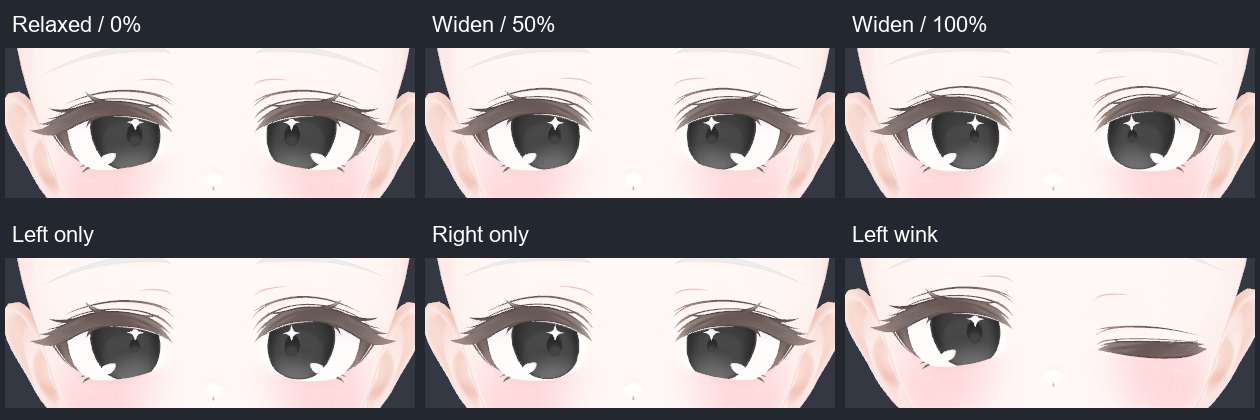
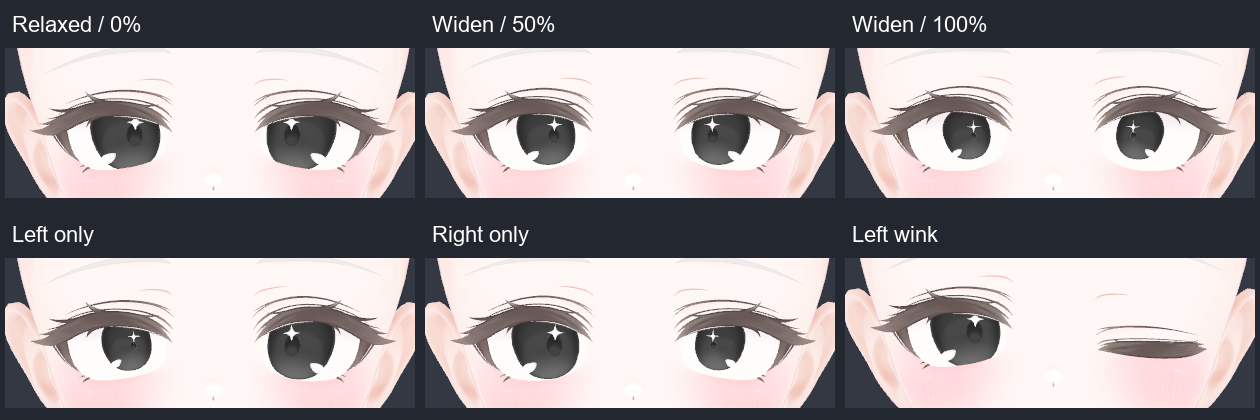
Scale irises and highlights together with eye widening

diff --git a/Packages/jp.suu.milfy-ft/Editor/MilfyEyeWidePlugin.cs b/Packages/jp.suu.milfy-ft/Editor/MilfyEyeWidePlugin.cs
@@ -50,6 +50,17 @@ namespace Suu.MilfyFT.Editor
             {
                 if (widened != body.sharedMesh && widened != mesh) Object.DestroyImmediate(widened);
             }
+            var contractedPupils = mesh;
+            mesh = null;
+            try
+            {
+                mesh = CreateIrisMesh(contractedPupils);
+            }
+            finally
+            {
+                if (contractedPupils != body.sharedMesh && contractedPupils != mesh)
+                    Object.DestroyImmediate(contractedPupils);
+            }
             if (mesh != body.sharedMesh)
             {
                 context.AssetSaver.SaveAsset(mesh);
@@ -81,11 +92,15 @@ namespace Suu.MilfyFT.Editor
                     AnimationCurve.Constant(0, 1, 0));
                 neutral.SetCurve(path, typeof(SkinnedMeshRenderer), "blendShape.MilfyEyeWidePupil" + side,
                     AnimationCurve.Constant(0, 1, 0));
+                neutral.SetCurve(path, typeof(SkinnedMeshRenderer), "blendShape.MilfyEyeWideIris" + side,
+                    AnimationCurve.Constant(0, 1, 0));
                 var wide = Object.Instantiate(neutral);
                 wide.name = "Milfy Eye Wide " + side + " On";
                 wide.SetCurve(path, typeof(SkinnedMeshRenderer), "blendShape.EyeWide" + side,
                     AnimationCurve.Constant(0, 1, 100));
                 wide.SetCurve(path, typeof(SkinnedMeshRenderer), "blendShape.MilfyEyeWidePupil" + side,
+                    AnimationCurve.Constant(0, 1, 100));
+                wide.SetCurve(path, typeof(SkinnedMeshRenderer), "blendShape.MilfyEyeWideIris" + side,
                     AnimationCurve.Constant(0, 1, 100));
                 var lid = new BlendTree
                 {
@@ -147,14 +162,25 @@ namespace Suu.MilfyFT.Editor
 
         internal static Mesh CreatePupilMesh(Mesh source)
         {
+            // pupul_small is the spelling in the original Milfy data.
+            return CreateSplitEyeMesh(source, "pupul_small", "MilfyEyeWidePupil", .5f);
+        }
+
+        internal static Mesh CreateIrisMesh(Mesh source)
+        {
+            // This variant scales the iris and its highlights together. The final character is full-width 2.
+            return CreateSplitEyeMesh(source, "eye_op_small_２", "MilfyEyeWideIris", .4f);
+        }
+
+        private static Mesh CreateSplitEyeMesh(Mesh source, string nativeName, string targetPrefix, float strength)
+        {
             if (source == null) throw new ArgumentNullException(nameof(source));
             var missingSides = new[] { "Left", "Right" }
-                .Where(side => source.GetBlendShapeIndex("MilfyEyeWidePupil" + side) < 0).ToArray();
+                .Where(side => source.GetBlendShapeIndex(targetPrefix + side) < 0).ToArray();
             if (missingSides.Length == 0) return source;
-            // This spelling is the original Milfy shape name, not a typo to correct here.
-            var index = source.GetBlendShapeIndex("pupul_small");
+            var index = source.GetBlendShapeIndex(nativeName);
             if (index < 0)
-                throw new InvalidOperationException("Milfy FT: pupil contraction requires the native pupul_small shape.");
+                throw new InvalidOperationException("Milfy FT: eye contraction requires the native " + nativeName + " shape.");
 
             var positions = source.vertices;
             var vertices = new Vector3[source.vertexCount];
@@ -171,11 +197,11 @@ namespace Suu.MilfyFT.Editor
                             vertices[v] != Vector3.zero) hasDisplacement = true;
                 }
                 if (!hasDisplacement)
-                    throw new InvalidOperationException("Milfy FT: pupul_small has no " + side + " pupil displacement.");
+                    throw new InvalidOperationException("Milfy FT: " + nativeName + " has no " + side + " eye displacement.");
             }
 
             var result = Object.Instantiate(source);
-            result.name = source.name + " (Pupil Contraction)";
+            result.name = source.name + " (" + targetPrefix + ")";
             try
             {
                 foreach (var side in missingSides)
@@ -185,12 +211,12 @@ namespace Suu.MilfyFT.Editor
                     for (var v = 0; v < positions.Length; v++)
                     {
                         // Unmodified Milfy uses local +X for anatomical left, -X for right.
-                        var scale = (side == "Left" ? positions[v].x > 0 : positions[v].x < 0) ? .5f : 0;
+                        var scale = (side == "Left" ? positions[v].x > 0 : positions[v].x < 0) ? strength : 0;
                         vertices[v] *= scale;
                         normals[v] *= scale;
                         tangents[v] *= scale;
                     }
-                    result.AddBlendShapeFrame("MilfyEyeWidePupil" + side,
+                    result.AddBlendShapeFrame(targetPrefix + side,
                         source.GetBlendShapeFrameWeight(index, frame), vertices, normals, tangents);
                 }
                 return result;

diff --git a/Packages/jp.suu.milfy-ft/Tests/Editor/MilfyEyeWideTests.cs b/Packages/jp.suu.milfy-ft/Tests/Editor/MilfyEyeWideTests.cs
@@ -133,6 +133,8 @@ namespace Suu.MilfyFT.Tests
             AddShape("EyeWideRight", 100, Vector3.left);
             AddShape("MilfyEyeWidePupilLeft", 100, Vector3.right);
             AddShape("MilfyEyeWidePupilRight", 100, Vector3.left);
+            AddShape("MilfyEyeWideIrisLeft", 100, Vector3.right);
+            AddShape("MilfyEyeWideIrisRight", 100, Vector3.left);
             var root = new GameObject("Eye wide test");
             var graph = PlayableGraph.Create("Eye wide reset test");
             AnimatorController controller = null;
@@ -178,6 +180,8 @@ namespace Suu.MilfyFT.Tests
                     {
                         Assert.That(renderer.GetBlendShapeWeight(_source.GetBlendShapeIndex("EyeWide" + side)),
                             Is.EqualTo(active * 100).Within(.01f));
+                        Assert.That(renderer.GetBlendShapeWeight(_source.GetBlendShapeIndex("MilfyEyeWideIris" + side)),
+                            Is.EqualTo(active * 100).Within(.01f));
                         Assert.That(renderer.GetBlendShapeWeight(_source.GetBlendShapeIndex("MilfyEyeWidePupil" + side)),
                             Is.EqualTo(active * 100 * (supportsTrackedPupils ? 1 - pupilTrackingValue : 1)).Within(.01f));
                     }
@@ -209,39 +213,40 @@ namespace Suu.MilfyFT.Tests
             }
         }
 
-        private void AddNativePupil()
+        private void AddNativePupil(string nativeName = "pupul_small")
         {
             _source.vertices = new[] { Vector3.left, Vector3.right, Vector3.up };
             foreach (var weight in new[] { 50f, 100f })
-                _source.AddBlendShapeFrame("pupul_small", weight,
+                _source.AddBlendShapeFrame(nativeName, weight,
                     new[] { Vector3.right * weight / 100, Vector3.left * weight / 100, Vector3.zero },
                     new[] { Vector3.forward, Vector3.back, Vector3.zero },
                     new[] { Vector3.up, Vector3.down, Vector3.zero });
         }
 
-        private Mesh BuildPupils()
+        private Mesh BuildPupils(bool iris = false)
         {
             var type = typeof(Editor.MilfyFtSetupService).Assembly
                 .GetType("Suu.MilfyFT.Editor.MilfyEyeWidePlugin", true);
             try
             {
-                return _result = (Mesh)type.GetMethod("CreatePupilMesh", BindingFlags.Static | BindingFlags.NonPublic)
+                return _result = (Mesh)type.GetMethod(iris ? "CreateIrisMesh" : "CreatePupilMesh", BindingFlags.Static | BindingFlags.NonPublic)
                     .Invoke(null, new object[] { _source });
             }
             catch (TargetInvocationException exception) { throw exception.InnerException; }
         }
 
-        [Test]
-        public void SplitsPupilsIndependentlyAtHalfStrengthAndPreservesFrames()
+        [TestCase(false)]
+        [TestCase(true)]
+        public void SplitsEyeContractionIndependentlyAndPreservesFrames(bool iris)
         {
-            AddNativePupil();
-            var result = BuildPupils();
+            AddNativePupil(iris ? "eye_op_small_２" : "pupul_small");
+            var result = BuildPupils(iris);
             Assert.That(_source.blendShapeCount, Is.EqualTo(3));
             Assert.That(result.blendShapeCount, Is.EqualTo(5));
             AssertShapeEqual(_source, 2, result, 2);
             foreach (var side in new[] { "Left", "Right" })
             {
-                var index = result.GetBlendShapeIndex("MilfyEyeWidePupil" + side);
+                var index = result.GetBlendShapeIndex((iris ? "MilfyEyeWideIris" : "MilfyEyeWidePupil") + side);
                 Assert.That(result.GetBlendShapeFrameCount(index), Is.EqualTo(2));
                 for (var frame = 0; frame < 2; frame++)
                 {
@@ -253,7 +258,7 @@ namespace Suu.MilfyFT.Tests
                     for (var channel = 0; channel < 3; channel++)
                     for (var vertex = 0; vertex < 3; vertex++)
                         Assert.That(actual[channel][vertex], Is.EqualTo(vertex == (side == "Left" ? 1 : 0)
-                            ? original[channel][vertex] * .5f : Vector3.zero));
+                            ? original[channel][vertex] * (iris ? .4f : .5f) : Vector3.zero));
                 }
             }
         }
@@ -283,6 +288,13 @@ namespace Suu.MilfyFT.Tests
             AddShape("pupul_small", 100, Vector3.up);
             Assert.Throws<InvalidOperationException>(() => BuildPupils());
             Assert.That(_source.blendShapeCount, Is.EqualTo(3));
+        }
+
+        [Test]
+        public void MissingIrisSourceFailsWithoutChangingSource()
+        {
+            Assert.Throws<InvalidOperationException>(() => BuildPupils(true));
+            Assert.That(_source.blendShapeCount, Is.EqualTo(2));
         }
 
         private static void AssertShapeEqual(Mesh source, int sourceIndex, Mesh target, int targetIndex)

diff --git a/Documentation~/eye-widening.md b/Documentation~/eye-widening.md
@@ -4,9 +4,9 @@
 
 1.1.xのBlendShareデータは39形状で、Jerry 7.0.5が駆動する`EyeWideLeft/Right`が存在しないため、まぶた入力が通常開眼を超えても見開きが表示されなかった。
 
-1.2.0はNDMF Transforming / Modular Avatar後に、Milfy固有の`Milfy/GazeSync`を持つControllerだけを対象にする。`Body`のMeshを複製し、不足側だけ`eye_surprised_L/R`の全フレーム・weight・頂点・法線・接線をコピーする。標準の`pupul_small`を元頂点のlocal Xで左右に分離し、頂点・法線・接線を50%にした`MilfyEyeWidePupilLeft/Right`も追加する。最大見開きでネイティブ縮小の50%相当（100%では瞳孔がほぼ消える実描画を比較して決定）。元の39形状データは変えず、ビルド中の追加形状は計4個、FT用・補正用は計43形状。既存形状番号と既存のカスタム見開き形状データを保持する。元FBX・Meshアセットは変更しない。必要な元形状が欠ける場合や変位がない場合は明示的に失敗する。
+1.2.0はNDMF Transforming / Modular Avatar後に、Milfy固有の`Milfy/GazeSync`を持つControllerだけを対象にする。`Body`のMeshを複製し、不足側だけ`eye_surprised_L/R`の全フレーム・weight・頂点・法線・接線をコピーする。標準の`pupul_small`を元頂点のlocal Xで左右に分離し、頂点・法線・接線を50%にした`MilfyEyeWidePupilLeft/Right`も追加する。最大見開きでネイティブ縮小の50%相当（100%では瞳孔がほぼ消える実描画を比較して決定）。さらに`eye_op_small_２`（全角２）を40%にした左右の`MilfyEyeWideIrisLeft/Right`を追加し、黒目と星型を含むハイライトの位置・大きさを一緒に縮める。虹彩だけを縮める形状では星が相対的に大きく浮くことを描画で確認し、ハイライトも含む形状を選んだ。元の39形状データは変えず、ビルド中の追加形状は計6個、FT用・補正用は計45形状。既存形状番号と既存のカスタム見開き形状データを保持する。元FBX・Meshアセットは変更しない。必要な元形状が欠ける場合や変位がない場合は明示的に失敗する。
 
-見開きは平滑化済み`OSCm/Proxy/FT/v2/EyeLidLeft/Right`から、`.75=0%`、`1=100%`として左右独立に補間する。`EyeTrackingActive=0`では明示的に0を出力する。専用2層はpriority 1001でJerryのpriority 1000の後へ追加する。瞬き・視線・口・他の既存形状のcurveを変更しない。JerryのEyeLid×EyeSquintの2D合成を複製する実装ではなく、見開きと連動縮瞳をEyeLidに比例して制御する。瞳孔縮小も同じ入力へ左右独立に連動し、通常開眼・FTオフで0へ戻す。実Meshに`EyeConstrict/EyeDilation`の両方がある場合だけ、`EyeDilationEnable`オンで瞳孔補正を0にして既存制御へ譲り、まぶたは維持する。標準Meshには両形状がなく、このトグルの保存値がオンでも縮瞳を止めない。実測瞳孔入力への新規対応ではない。カスタムAnimatorが同じ形状を制御する場合はlayer順を考慮する必要があり、Meshデータの保持とAnimatorの出力優先順位は別である。
+見開きは平滑化済み`OSCm/Proxy/FT/v2/EyeLidLeft/Right`から、`.75=0%`、`1=100%`として左右独立に補間する。`EyeTrackingActive=0`では明示的に0を出力する。専用2層はpriority 1001でJerryのpriority 1000の後へ追加する。瞬き・視線・口・他の既存形状のcurveを変更しない。JerryのEyeLid×EyeSquintの2D合成を複製する実装ではなく、見開き・連動縮瞳・黒目とハイライトの縮小をEyeLidに比例して制御する。瞳孔縮小も同じ入力へ左右独立に連動し、通常開眼・FTオフで0へ戻す。実Meshに`EyeConstrict/EyeDilation`の両方がある場合だけ、`EyeDilationEnable`オンで瞳孔補正を0にして既存制御へ譲り、まぶたと黒目・ハイライトの縮小は維持する。標準Meshには両形状がなく、このトグルの保存値がオンでも縮瞳を止めない。実測瞳孔入力への新規対応ではなく、黒目全体の縮小による最終見た目の瞳孔サイズ変化は残る。カスタムAnimatorが同じ形状を制御する場合はlayer順を考慮する必要があり、Meshデータの保持とAnimatorの出力優先順位は別である。
 
 OSC/Expression Parameters、同期bit、メニュー、public API、シリアライズ済みの39形状データ、依存バージョンは変更しない。旧セットアップにも適用され、パッケージ更新後の再ビルド・アップロードが必要。
 
@@ -22,20 +22,22 @@ OSC/Expression Parameters、同期bit、メニュー、public API、シリアラ
 環境: Unity 2022.3.22f1、VRChat Avatars SDK 3.10.4、MA 1.18.1、NDMF 1.14.3、BlendShare 1.0.3、Jerry 7.0.5、AAO 1.9.16。
 
 - Unityコンパイル成功。変更箇所のエラーなし。
-- [15件のNUnit fixture検証](eye-wide-fixture-checks.txt): 両側追加、元Mesh・既存形状・geometryの保持、全フレーム/法線/接線、左右片側だけの追加、冪等性、元形状欠落、変位なし、WD Offの下位writerが100でもFTオン→オフを繰り返すと見開きと縮瞳が解除されること。縮瞳の左右分離・半量変位・全フレーム保持、追跡中に瞳孔制御トグルを0→1→0と切り替える所有権切替、元形状欠落時の保護も検証。
+- [17件のNUnit fixture検証](eye-wide-fixture-checks.txt): 両側追加、元Mesh・既存形状・geometryの保持、全フレーム/法線/接線、左右片側だけの追加、冪等性、元形状欠落、変位なし、WD Offの下位writerが100でもFTオン→オフを繰り返すと見開きと縮瞳が解除されること。縮瞳の左右分離・半量変位、黒目とハイライトの左右分離・40%変位・全フレーム保持、追跡中に瞳孔制御トグルを0→1→0と切り替える所有権切替、元形状欠落時の保護も検証。
 - 未保存Sceneを維持するため、Unity Test Runnerは実行していない。uLoopの`run-tests --unsaved-changes fail`が未保存Sceneを検出して停止した後、EditModeで各fixtureのSetUp/Test/TearDownを直接実行した。Test Runnerによる成功とは区別する。
-- [生成Animatorの23ケース](eye-wide-animator-validation.txt): 0/25/50/75/100%、左右別の見開き、左右ウインク、再開眼、パー中の見開き/半見開き/閉眼、Quest Pro、FTオフ、再有効化、追跡停止/再開、見開きと目細めの同時入力、標準Meshで保存済み瞳孔トグルがオン/オフの場合、縮瞳後の通常開眼。全ケースで左右の瞳孔補正量も確認。実際のNDMF生成ControllerをUnity Playablesで評価し、VRChat SDKのParameter Driver / Layer ControlだけをEditMode上で模擬した。
+- [生成Animatorの23ケース](eye-wide-animator-validation.txt): 0/25/50/75/100%、左右別の見開き、左右ウインク、再開眼、パー中の見開き/半見開き/閉眼、Quest Pro、FTオフ、再有効化、追跡停止/再開、見開きと目細めの同時入力、標準Meshで保存済み瞳孔トグルがオン/オフの場合、縮瞳後の通常開眼。全ケースで左右の瞳孔・黒目補正量も確認。実際のNDMF生成ControllerをUnity Playablesで評価し、VRChat SDKのParameter Driver / Layer ControlだけをEditMode上で模擬した。
 - 現在のセットアップ済みアバターは生成後216/256 bits。見開き用Expression Parameterは追加しない。
 - [706個の既存renderer weight](eye-wide-weight-validation.txt)がMesh再割当後も保持されることを確認。
-- [AAO Trace And Optimize](eye-wide-aao-validation.txt)を検証用複製で有効化し、リネームされた見開き・縮瞳の4形状とAnimator bindingの一致を確認。最適化後も216/256 bits。
+- [AAO Trace And Optimize](eye-wide-aao-validation.txt)を検証用複製で有効化し、リネームされた見開き・縮瞳・黒目/ハイライトの6制御とAnimator bindingの一致を確認。同じカーブの瞳孔/虹彩はAAOで左右それぞれ1形状へ統合される。最適化後も216/256 bits。
 - [新規セットアップと非FTアバター](eye-wide-new-setup-validation.txt): 新規セットアップにも2形状が追加され、Milfy FTを導入していないアバターは対象外になることを確認。
 - Unityで生成後Meshを描画し、通常開眼・50%・100%・左右別の見開き・ウインクを目視確認。
 
 [実Meshの縮瞳検証](eye-wide-pupil-geometry-validation.txt)では、両側補正の最大値が標準`pupul_small=50`と一致することを確認（最大頂点差`1.193256E-07`）。元の706個のweightとMesh参照も保持。
 
-![見開き時の瞳孔縮小の追加前後](eye-wide-pupil-before-after.png)
+[黒目・ハイライトと瞳孔の合成検証](eye-wide-iris-geometry-validation.txt)では、最終補正が標準`pupul_small=50 + eye_op_small_２=40`と一致することを確認（最大頂点差`1.19282E-07`）。星型ハイライトが虹彩と一緒に縮まり、位置も内側へ追従することを左右それぞれ描画で確認した。
 
-見開き0/50/100%に対し、瞳孔縮小は標準形状0/25/50%相当に連動する。
+![黒目と星型ハイライトの追従比較](eye-wide-iris-highlight-before-after.png)
+
+見開き0/50/100%に対し、瞳孔専用縮小は標準形状0/25/50%相当、黒目とハイライトの縮小は標準形状0/20/40%相当に連動する。
 
 ![生成後Meshの実描画比較](eye-wide-comparison.png)
 

diff --git a/Packages/jp.suu.milfy-ft/CHANGELOG.md b/Packages/jp.suu.milfy-ft/CHANGELOG.md
@@ -2,13 +2,14 @@
 
 ## 1.2.0 - 2026-10-26
 
+- 見開きに合わせ、黒目全体と星型を含むハイライトの大きさ・位置も左右独立に縮小（標準形状の最大40%相当）
 - 見開きに合わせ、左右の瞳孔を標準縮小形状の最大50%まで連続縮小する補正を追加
 - NDMFビルド時の複製Meshに `EyeWideLeft` / `EyeWideRight` を追加し、左右独立した連続的な目の見開きに対応
 - Milfy標準の `eye_surprised_L` / `R` を使用し、元のMesh・既存のFT形状・カスタム見開き形状を保持
 - 既存の1.1.xセットアップにも再セットアップなしで適用（更新後の再ビルド・アップロードが必要）
 - Jerry's Templates 7.0.5の入力・Animatorを再利用し、OSCパラメーター・同期bit・メニュー・依存バージョンは維持
 - 追跡停止・FTオフ時に見開きを解除する専用制御を追加
-- frameeyeoscの見開き対応接続方法と15件の回帰テストを追加
+- frameeyeoscの見開き対応接続方法と17件の回帰テストを追加
 
 ## 1.1.0 - 2026-08-03
 
